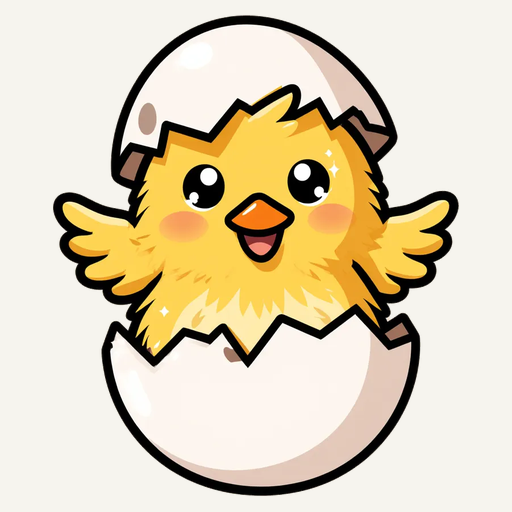
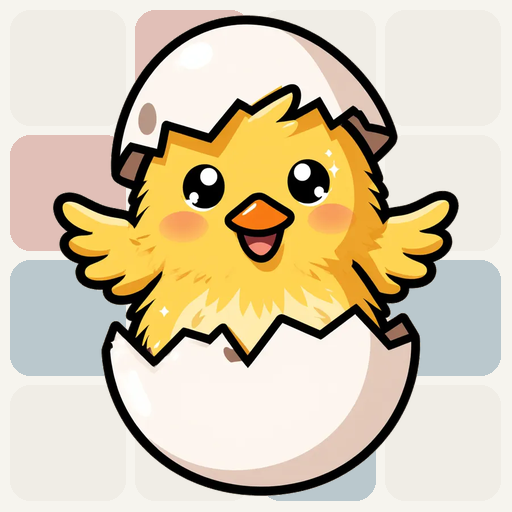
앱 아이콘 v2: 병아리 + 시세 지도 타일 배경
make_app_icon.py에 tile_bg() 추가 — 4x4 라운드 타일(빨강=상승·파랑=하락
지도 색 규칙, BG에 미리 블렌딩한 저채도 톤)을 깔고 병아리 합성. RGBA
캔버스에서 PIL 반투명 fill이 블렌딩되지 않아 blend() 헬퍼로 사전 혼합.
파비콘·PWA any/maskable 전부 재생성, sw v5 범프(아이콘 캐시 갱신).

diff --git a/sw.js b/sw.js
@@ -3,7 +3,7 @@
    - 정적 자산: cache-first (+백그라운드 갱신)
    - 외부 도메인(GA·카카오 SDK)은 건드리지 않음
 */
-const VERSION = 'v4'; // 리브랜딩(아공맵): manifest 이름 교체 반영. 옛 캐시를 버려야 새 매니페스트가 뜬다.
+const VERSION = 'v5'; // 앱 아이콘 병아리+지도 타일 v2. 옛 캐시를 버려야 새 아이콘이 뜬다.
 const CACHE = `aptweather-${VERSION}`;
 
 const PRECACHE = [

diff --git a/tools/make_app_icon.py b/tools/make_app_icon.py
@@ -14,18 +14,48 @@
 사용: python tools/make_app_icon.py
 """
 import os, sys
-from PIL import Image
+from PIL import Image, ImageDraw
 
 ROOT = os.path.dirname(os.path.dirname(os.path.abspath(__file__)))
 sys.path.insert(0, os.path.join(ROOT, 'tools'))
 from make_beginner_cards import cutout, find_art  # noqa: E402
 
 BG = (246, 244, 238, 255)   # 사이트 종이색 #f6f4ee (manifest background_color와 동일)
+RED = (169, 50, 38)         # 시세 지도 상승색 #a93226
+BLUE = (26, 82, 118)        # 시세 지도 하락색 #1a5276
+NEUTRAL = (208, 202, 188)
+# 4x4 그리드에서 색이 들어가는 타일 위치 (행, 열) — 시세 지도 축소판 느낌
+TILE_PAT = {(0, 1): RED, (1, 2): RED, (2, 0): BLUE, (3, 2): BLUE, (1, 0): RED, (2, 3): BLUE}
+
+
+def blend(col, alpha):
+    """BG 위에 col을 alpha(0~255)만큼 얹은 결과색 — RGBA 캔버스는 PIL이 반투명
+    블렌딩을 안 해주므로(직접 대입됨) 미리 섞은 불투명 색을 쓴다."""
+    a = alpha / 255
+    return tuple(round(b * (1 - a) + c * a) for b, c in zip(BG[:3], col))
+
+
+def tile_bg(size):
+    """아공맵 정체성: 시세 지도풍 타일 그리드를 은은하게 깐 배경 (병아리가 주인공)."""
+    im = Image.new('RGBA', (size, size), BG)
+    d = ImageDraw.Draw(im)
+    n = 4
+    gap = max(2, round(size * 0.02))
+    cell = (size - gap * (n + 1)) // n
+    radius = max(3, round(cell * 0.17))
+    for r in range(n):
+        for c in range(n):
+            x0 = gap + c * (cell + gap)
+            y0 = gap + r * (cell + gap)
+            col = TILE_PAT.get((r, c))
+            fill = blend(col, 70) if col else blend(NEUTRAL, 40)
+            d.rounded_rectangle([x0, y0, x0 + cell, y0 + cell], radius=radius, fill=fill)
+    return im
 
 
 def compose(subject, size, fill_ratio):
-    """정사각 캔버스(BG) 중앙에 피사체를 fill_ratio 크기로 합성."""
-    canvas = Image.new('RGBA', (size, size), BG)
+    """타일 배경 캔버스 중앙에 피사체를 fill_ratio 크기로 합성."""
+    canvas = tile_bg(size)
     w, h = subject.size
     scale = size * fill_ratio / max(w, h)
     sub = subject.resize((max(1, round(w * scale)), max(1, round(h * scale))), Image.LANCZOS)
